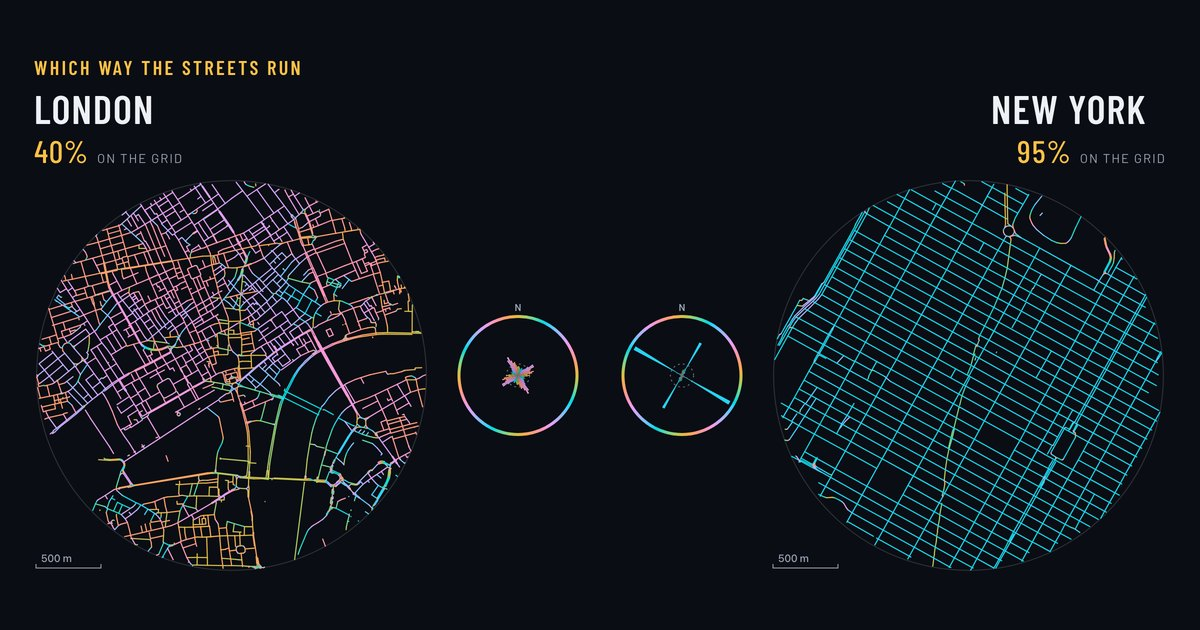
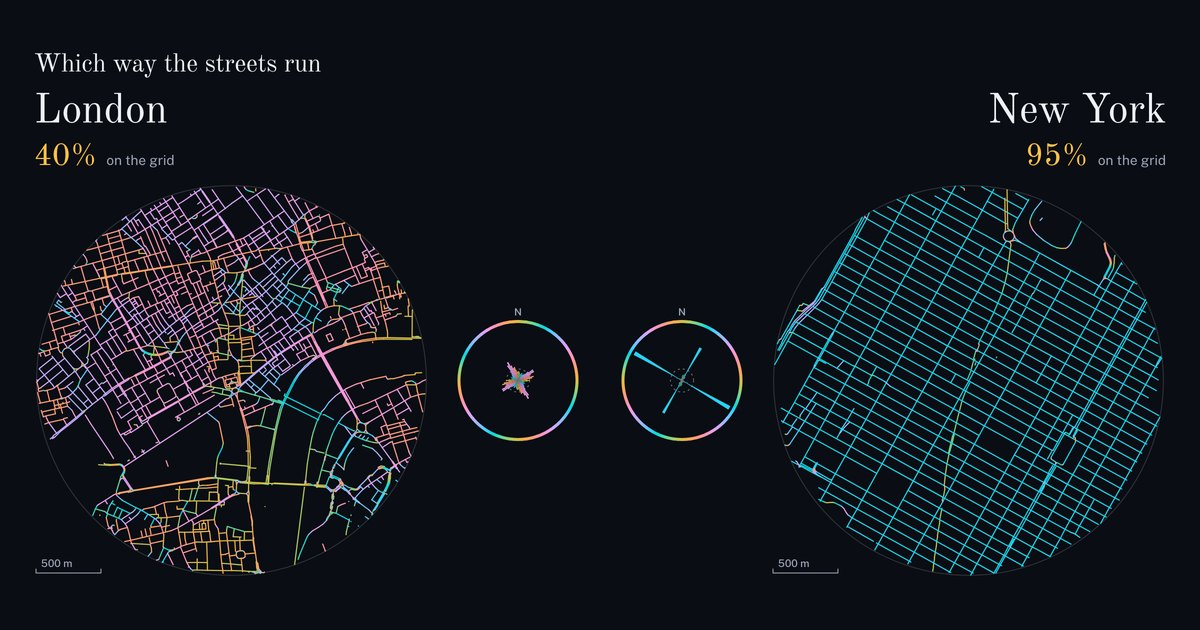
Reset No. 014 and No. 015 in an atlas serif, and fix No. 015's city menus
Old Standard TT for names and figures, Public Sans for the rest, all in
sentence case. The city pickers in No. 015 keep a native select laid over
the drawn name, so the system menu opens at its normal size.

diff --git a/works/015/index.html b/works/015/index.html
@@ -296,20 +296,20 @@
 <!-- /gen:ld -->
 <link rel="preconnect" href="https://fonts.googleapis.com">
 <link rel="preconnect" href="https://fonts.gstatic.com" crossorigin>
-<link href="https://fonts.googleapis.com/css2?family=Barlow:wght@400;500;600&family=Barlow+Condensed:wght@500;600&display=swap" rel="stylesheet">
+<link href="https://fonts.googleapis.com/css2?family=Old+Standard+TT:ital,wght@0,400;1,400&family=Public+Sans:wght@400;500;600&display=swap" rel="stylesheet">
 <style>
   /* Two street maps on a dark table, every street in the colour of the direction it runs. A sibling of No. 014. */
   :root {
     --ground: #0a0d13; --ink: #eef1f6; --soft: #9aa5b8; --dim: #8490a4;
     --line: rgba(238, 241, 246, .18); --hot: #ffc247;
-    --sans: 'Barlow', 'Helvetica Neue', system-ui, sans-serif;
-    --cond: 'Barlow Condensed', 'Barlow', 'Arial Narrow', system-ui, sans-serif;
+    --serif: 'Old Standard TT', 'Iowan Old Style', 'Palatino Linotype', Georgia, serif;
+    --sans: 'Public Sans', 'Helvetica Neue', system-ui, sans-serif;
     --pad: clamp(16px, 3.4vw, 48px);
     color-scheme: dark;
   }
   * { box-sizing: border-box; }
   html, body { margin: 0; }
-  body { min-height: 100dvh; color: var(--ink); background: var(--ground); font: 400 16px/1.5 var(--sans); -webkit-font-smoothing: antialiased; }
+  body { min-height: 100dvh; color: var(--ink); background: var(--ground); font: 400 16px/1.5 var(--sans); font-synthesis: none; -webkit-font-smoothing: antialiased; }
   ::selection { background: var(--hot); color: var(--ground); }
   :focus-visible { outline: 2px solid var(--ink); outline-offset: 3px; }
   button, select { font: inherit; color: inherit; cursor: pointer; }
@@ -319,19 +319,20 @@
   /* the way back to the other works: a pill, with the work's label beside it, then the pairs to try */
   .nav { display: flex; align-items: center; gap: 10px 14px; flex-wrap: wrap; padding: max(16px, env(safe-area-inset-top)) var(--pad) 0; }
   .back, .pill { color: var(--ink); text-decoration: none; padding: 9px 14px; border: 1px solid var(--line); border-radius: 99px; background: none;
-    font-size: .78rem; font-weight: 600; line-height: 1; letter-spacing: .14em; text-transform: uppercase; white-space: nowrap; transition: border-color .2s, background-color .2s; }
+    font-size: .85rem; font-weight: 500; line-height: 1; white-space: nowrap; transition: border-color .2s, background-color .2s; }
+  .back { font-weight: 600; }
   .back:hover, .pill:hover { border-color: var(--ink); background: rgba(238, 241, 246, .08); }
-  .label { font-size: .78rem; font-weight: 500; letter-spacing: .14em; text-transform: uppercase; color: var(--soft); }
+  .label { font-size: .85rem; color: var(--soft); }
 
   .head { padding: clamp(24px, 4vw, 52px) var(--pad) 0; display: grid; gap: clamp(12px, 2vw, 24px) clamp(24px, 5vw, 80px); grid-template-columns: minmax(0, auto) minmax(0, 36rem); align-items: end; justify-content: start; }
-  .head h1 { font: 600 clamp(2.4rem, 6.4vw, 4.8rem)/.9 var(--cond); letter-spacing: .005em; text-transform: uppercase; }
-  .head h1 span { display: block; color: var(--hot); }
+  .head h1 { font: 400 clamp(2.3rem, 5.4vw, 4.4rem)/1.02 var(--serif); letter-spacing: -.01em; }
+  .head h1 span { display: block; }
   .lede { color: var(--soft); font-size: clamp(.98rem, 1.25vw, 1.1rem); text-wrap: pretty; }
   .lede b { color: var(--ink); font-weight: 500; }
 
   .pairs { display: flex; flex-wrap: wrap; gap: 0 22px; padding: clamp(14px, 2vw, 22px) var(--pad) 0; }
   .tab { padding: 9px 0 7px; border: 0; border-bottom: 1px solid transparent; background: none; color: var(--soft);
-    font-size: .78rem; font-weight: 600; line-height: 1; letter-spacing: .14em; text-transform: uppercase; white-space: nowrap; transition: color .2s, border-color .2s; }
+    font-size: .9rem; font-weight: 500; line-height: 1; white-space: nowrap; transition: color .2s, border-color .2s; }
   .tab:hover { color: var(--ink); }
   .tab[aria-pressed="true"] { color: var(--ink); border-color: var(--ink); }
 
@@ -341,15 +342,21 @@
     padding: clamp(18px, 3vw, 36px) var(--pad) 0; }
   .pick { display: grid; gap: 2px; align-content: start; min-width: 0; padding-bottom: 10px; }
   .pick.a { grid-area: pa; } .pick.b { grid-area: pb; justify-items: end; text-align: right; }
-  .pick select { max-width: 100%; padding: 0 1.1em 0 0; border: 0; border-bottom: 1px solid var(--line); border-radius: 0; background: none; -webkit-appearance: none; appearance: none;
-    font: 600 clamp(1.7rem, 4.6vw, 3.4rem)/1.05 var(--cond); letter-spacing: .03em; text-transform: uppercase;
+  /* the big name is drawn; the real select lies over it, unseen, so its list opens at the system's own size */
+  .choose { position: relative; justify-self: start; max-width: 100%; }
+  .pick.b .choose { justify-self: end; }
+  .name { display: block; overflow: hidden; text-overflow: ellipsis; white-space: nowrap; padding: 0 .9em 0 0; border-bottom: 1px solid var(--line);
+    font: 400 clamp(2rem, 4.6vw, 3.4rem)/1.15 var(--serif); letter-spacing: -.01em; transition: border-color .2s;
     background-image: linear-gradient(45deg, transparent 50%, currentColor 50%), linear-gradient(135deg, currentColor 50%, transparent 50%);
-    background-size: .22em .22em, .22em .22em; background-position: calc(100% - .5em) 58%, calc(100% - .28em) 58%; background-repeat: no-repeat; }
-  .pick select:hover { border-color: var(--ink); }
-  .pick option { font: 400 1rem var(--sans); color: #111; text-transform: none; }
-  .from { color: var(--soft); font-size: .9rem; line-height: 1.3; }
-  .score { margin-top: 4px; color: var(--soft); font-size: .8rem; letter-spacing: .1em; text-transform: uppercase; }
-  .score b { margin-right: .15em; font: 500 clamp(1.5rem, 2.6vw, 2.2rem)/1 var(--cond); letter-spacing: .02em; color: var(--hot); font-variant-numeric: tabular-nums; }
+    background-size: .18em .18em, .18em .18em; background-position: calc(100% - .38em) 58%, calc(100% - .2em) 58%; background-repeat: no-repeat; }
+  .choose select { position: absolute; inset: 0; width: 100%; height: 100%; margin: 0; padding: 0; border: 0; opacity: 0; font-size: 16px; cursor: pointer; }
+  .choose:hover .name { border-color: var(--ink); }
+  .choose:focus-within { outline: 2px solid var(--ink); outline-offset: 3px; }
+  .choose:has(select) { outline: none; }
+  .choose:has(select:focus-visible) { outline: 2px solid var(--ink); outline-offset: 3px; }
+  .from { color: var(--soft); font: italic 400 1.05rem/1.3 var(--serif); margin-top: 4px; }
+  .score { margin-top: 4px; color: var(--soft); font-size: .85rem; }
+  .score b { margin-right: .2em; font: 400 clamp(1.6rem, 2.6vw, 2.2rem)/1 var(--serif); color: var(--hot); font-variant-numeric: tabular-nums; }
   .btns { display: flex; flex-wrap: wrap; gap: 8px; justify-content: center; }
   .map { position: relative; aspect-ratio: 1; width: min(100%, 68dvh); cursor: crosshair; }
   .map.a { grid-area: ma; justify-self: end; } .map.b { grid-area: mb; justify-self: start; }
@@ -357,34 +364,34 @@
   .rose { position: relative; aspect-ratio: 1; align-self: end; touch-action: none; cursor: crosshair; }
   .rose.a { grid-area: ra; } .rose.b { grid-area: rb; }
   .ctl { grid-area: ct; display: grid; gap: 12px; justify-items: center; align-content: start; padding-top: 12px; text-align: center; }
-  .read { color: var(--soft); font-size: .86rem; line-height: 1.35; min-height: 2.7em; max-width: 26em; font-variant-numeric: tabular-nums; }
+  .read { color: var(--soft); font-size: .9rem; line-height: 1.35; min-height: 2.7em; max-width: 26em; font-variant-numeric: tabular-nums; }
   .read b { color: var(--ink); font-weight: 500; }
 
   /* the numbers, city against city */
   .tape { display: grid; gap: clamp(14px, 2vw, 22px); max-width: 1100px; margin: 0 auto; padding: clamp(28px, 4vw, 56px) var(--pad) 0; }
   .row { display: grid; grid-template-columns: minmax(0, 1fr) minmax(8.5em, 15em) minmax(0, 1fr); gap: 0 clamp(10px, 2vw, 28px); align-items: center; }
   .what { text-align: center; }
-  .what b { display: block; font: 600 clamp(.95rem, 1.5vw, 1.2rem)/1.1 var(--cond); letter-spacing: .1em; text-transform: uppercase; }
-  .what span { display: block; margin-top: 3px; color: var(--dim); font-size: .76rem; line-height: 1.3; text-wrap: balance; }
+  .what b { display: block; font: 500 clamp(.95rem, 1.4vw, 1.1rem)/1.2 var(--sans); }
+  .what span { display: block; margin-top: 3px; color: var(--dim); font-size: .8rem; line-height: 1.3; text-wrap: balance; }
   .val { display: flex; align-items: center; gap: 12px; min-width: 0; }
   .val.a { flex-direction: row-reverse; }
-  .val b { flex: none; min-width: 2.7em; font: 500 clamp(1.5rem, 3.2vw, 2.4rem)/1 var(--cond); font-variant-numeric: tabular-nums; }
+  .val b { flex: none; min-width: 2.7em; font: 400 clamp(1.6rem, 3.2vw, 2.4rem)/1 var(--serif); font-variant-numeric: tabular-nums; }
   .val.a b { text-align: left; } .val.b b { text-align: right; }
-  .val b small { font: 500 .45em/1 var(--sans); color: var(--soft); margin-left: .25em; letter-spacing: .04em; }
+  .val b small { font: 400 max(.8rem, .4em)/1 var(--sans); color: var(--soft); margin-left: .25em; }
   .bar { flex: 1 1 0; height: 6px; min-width: 0; display: flex; background: rgba(238, 241, 246, .08); border-radius: 1px; }
   .val.a .bar { justify-content: flex-end; }
   .bar i { display: block; height: 100%; background: var(--ink); border-radius: 1px; transition: width .6s cubic-bezier(.16, 1, .3, 1); }
 
   .about { max-width: 1100px; margin: 0 auto; padding: clamp(36px, 5vw, 72px) var(--pad) max(48px, env(safe-area-inset-bottom)); color: var(--soft); font-size: .92rem; display: grid; gap: .8em; }
   .about p { max-width: 46rem; }
-  .about h2 { font: 600 1.05rem/1.2 var(--cond); letter-spacing: .1em; text-transform: uppercase; color: var(--ink); margin-top: .8em; }
+  .about h2 { font: 400 1.4rem/1.2 var(--serif); color: var(--ink); margin-top: .8em; }
   .scroll { overflow-x: auto; margin: .4em 0; }
   table { border-collapse: collapse; width: 100%; min-width: 640px; font-variant-numeric: tabular-nums; }
   th, td { padding: 7px 14px 7px 0; text-align: right; border-bottom: 1px solid rgba(238, 241, 246, .1); font-weight: 400; white-space: nowrap; }
-  thead th { font-size: .72rem; letter-spacing: .08em; text-transform: uppercase; color: var(--dim); vertical-align: bottom; white-space: normal; }
+  thead th { font-size: .8rem; color: var(--dim); vertical-align: bottom; white-space: normal; }
   th:first-child { text-align: left; }
-  tbody th { color: var(--ink); font: 600 1rem/1.2 var(--cond); letter-spacing: .06em; text-transform: uppercase; }
-  tbody th small { display: block; font: 400 .78rem/1.3 var(--sans); letter-spacing: 0; text-transform: none; color: var(--dim); }
+  tbody th { color: var(--ink); font: 400 1.15rem/1.2 var(--serif); }
+  tbody th small { display: block; font: 400 .8rem/1.3 var(--sans); color: var(--dim); }
   tbody td { color: var(--ink); }
   tr.on th, tr.on td { border-bottom-color: var(--hot); }
   tr.on th { color: var(--hot); }
@@ -411,10 +418,10 @@
   /* ?bare: the two maps and their compasses, for the share image */
   .bare .nav, .bare .head, .bare .pairs, .bare .tape, .bare .about, .bare .ctl, .bare .from { display: none; }
   .bare body { display: grid; align-content: center; }
-  .bare body::before { content: 'Which way the streets run'; padding: 0 34px 10px; font: 600 1.25rem/1 var(--cond); letter-spacing: .12em; text-transform: uppercase; color: var(--hot); }
+  .bare body::before { content: 'Which way the streets run'; padding: 0 34px 10px; font: 400 1.6rem/1 var(--serif); letter-spacing: -.01em; color: var(--ink); }
   .bare .duel { padding: 0 34px; gap: 0 14px; grid-template-columns: minmax(0, 1fr) 150px 150px minmax(0, 1fr); grid-template-areas: 'pa pa pb pb' 'ma ra rb mb'; grid-template-rows: auto auto; }
   .bare .rose { align-self: center; }
-  .bare .pick select { font-size: 2.5rem; border: 0; background-image: none; padding: 0; }
+  .bare .name { font-size: 2.6rem; border: 0; background-image: none; padding: 0; }
   .bare .map { width: 100%; }
   @media (prefers-reduced-motion: reduce) { * { transition: none !important; } }
 </style>
@@ -442,8 +449,8 @@
   </div>
 
   <main class="duel" id="duel">
-    <div class="pick a"><select id="pick-a" aria-label="City on the left"></select><p class="from" id="from-a"></p><p class="score"><b id="score-a"></b> on the grid</p></div>
-    <div class="pick b"><select id="pick-b" aria-label="City on the right"></select><p class="from" id="from-b"></p><p class="score"><b id="score-b"></b> on the grid</p></div>
+    <div class="pick a"><div class="choose"><span class="name" id="name-a" aria-hidden="true"></span><select id="pick-a" aria-label="City on the left"></select></div><p class="from" id="from-a"></p><p class="score"><b id="score-a"></b> on the grid</p></div>
+    <div class="pick b"><div class="choose"><span class="name" id="name-b" aria-hidden="true"></span><select id="pick-b" aria-label="City on the right"></select></div><p class="from" id="from-b"></p><p class="score"><b id="score-b"></b> on the grid</p></div>
     <div class="map a" id="map-a" role="img"><canvas></canvas></div>
     <div class="map b" id="map-b" role="img"><canvas></canvas></div>
     <div class="rose a" id="rose-a" role="img"><canvas></canvas></div>

diff --git a/works/014/index.html b/works/014/index.html
@@ -296,20 +296,20 @@
 <!-- /gen:ld -->
 <link rel="preconnect" href="https://fonts.googleapis.com">
 <link rel="preconnect" href="https://fonts.gstatic.com" crossorigin>
-<link href="https://fonts.googleapis.com/css2?family=Barlow:wght@400;500;600&family=Barlow+Condensed:wght@500;600&display=swap" rel="stylesheet">
+<link href="https://fonts.googleapis.com/css2?family=Old+Standard+TT:ital,wght@0,400;1,400&family=Public+Sans:wght@400;500;600&display=swap" rel="stylesheet">
 <style>
   /* Twelve cities seen from above at night: the streets dim, and lit from the start outward as the walker reaches them. */
   :root {
     --ground: #0a0d13; --ink: #eef1f6; --soft: #9aa5b8; --dim: #8490a4;
     --line: rgba(238, 241, 246, .18); --hot: #ffc247;
-    --sans: 'Barlow', 'Helvetica Neue', system-ui, sans-serif;
-    --cond: 'Barlow Condensed', 'Barlow', 'Arial Narrow', system-ui, sans-serif;
+    --serif: 'Old Standard TT', 'Iowan Old Style', 'Palatino Linotype', Georgia, serif;
+    --sans: 'Public Sans', 'Helvetica Neue', system-ui, sans-serif;
     --pad: clamp(16px, 3.4vw, 48px);
     color-scheme: dark;
   }
   * { box-sizing: border-box; }
   html, body { margin: 0; }
-  body { min-height: 100dvh; color: var(--ink); background: var(--ground); font: 400 16px/1.5 var(--sans); -webkit-font-smoothing: antialiased; }
+  body { min-height: 100dvh; color: var(--ink); background: var(--ground); font: 400 16px/1.5 var(--sans); font-synthesis: none; -webkit-font-smoothing: antialiased; }
   ::selection { background: var(--hot); color: var(--ground); }
   :focus-visible { outline: 2px solid var(--ink); outline-offset: 3px; }
   button { font: inherit; color: inherit; cursor: pointer; }
@@ -319,21 +319,22 @@
   /* the way back to the other works: a pill, with the work's label beside it */
   .nav { display: flex; align-items: center; gap: 14px; flex-wrap: wrap; padding: max(16px, env(safe-area-inset-top)) var(--pad) 0; }
   .back, .pill { color: var(--ink); text-decoration: none; padding: 9px 14px; border: 1px solid var(--line); border-radius: 99px; background: none;
-    font-size: .78rem; font-weight: 600; line-height: 1; letter-spacing: .14em; text-transform: uppercase; white-space: nowrap; transition: border-color .2s, background-color .2s; }
+    font-size: .9rem; font-weight: 500; line-height: 1; white-space: nowrap; transition: border-color .2s, background-color .2s; }
+  .back { font-weight: 600; }
   .back:hover, .pill:hover { border-color: var(--ink); background: rgba(238, 241, 246, .08); }
-  .label { font-size: .78rem; font-weight: 500; letter-spacing: .14em; text-transform: uppercase; color: var(--soft); }
+  .label { font-size: .9rem; color: var(--soft); }
 
   .head { padding: clamp(28px, 5vw, 64px) var(--pad) clamp(8px, 1.4vw, 16px); display: grid; gap: clamp(14px, 2vw, 24px) clamp(24px, 5vw, 80px); grid-template-columns: minmax(0, auto) minmax(0, 34rem); align-items: end; justify-content: start; }
-  .head h1 { font: 600 clamp(2.6rem, 7.4vw, 5.6rem)/.9 var(--cond); letter-spacing: .005em; text-transform: uppercase; }
-  .head h1 span { display: block; color: var(--hot); }
-  .lede { color: var(--soft); font-size: clamp(.98rem, 1.25vw, 1.1rem); text-wrap: pretty; }
+  .head h1 { font: 400 clamp(2.3rem, 5.4vw, 4.4rem)/1.02 var(--serif); letter-spacing: -.01em; }
+  .head h1 span { display: block; }
+  .lede { color: var(--soft); font-size: clamp(1rem, 1.25vw, 1.1rem); text-wrap: pretty; }
   .lede b { color: var(--ink); font-weight: 500; }
 
   /* the clock: its track is the key to the colours, a band a minute */
   .dock { position: sticky; top: 0; z-index: 5; display: flex; align-items: center; gap: 12px clamp(14px, 2vw, 28px); flex-wrap: wrap;
     padding: 12px var(--pad) 10px; background: var(--ground); box-shadow: 0 10px 14px -4px var(--ground); }
   .play { min-width: 8.6em; text-align: center; }
-  .time { position: relative; flex: 1 1 240px; max-width: 520px; padding: 6px 0 20px; }
+  .time { position: relative; flex: 1 1 240px; max-width: 520px; padding: 6px 0 22px; }
   .ramp { position: relative; height: 8px; border-radius: 2px; overflow: hidden; }
   .ramp i { position: absolute; inset: 0 0 0 0; background: rgba(10, 13, 19, .8); }
   .time input { position: absolute; left: -8px; right: -8px; top: 0; width: calc(100% + 16px); height: 20px; margin: 0; background: none; -webkit-appearance: none; appearance: none; cursor: pointer; }
@@ -341,14 +342,14 @@
   .time input::-moz-range-track { height: 20px; background: none; }
   .time input::-webkit-slider-thumb { -webkit-appearance: none; width: 16px; height: 16px; margin-top: 2px; border-radius: 50%; background: var(--ink); border: 3px solid var(--ground); box-shadow: 0 0 0 1px var(--ink); }
   .time input::-moz-range-thumb { width: 10px; height: 10px; border-radius: 50%; background: var(--ink); border: 3px solid var(--ground); box-shadow: 0 0 0 1px var(--ink); }
-  .ticks { position: absolute; left: 0; right: 0; bottom: 0; height: 14px; font-size: .7rem; line-height: 14px; color: var(--dim); letter-spacing: .06em; }
+  .ticks { position: absolute; left: 0; right: 0; bottom: 0; height: 16px; font-size: .8rem; line-height: 16px; color: var(--dim); font-variant-numeric: tabular-nums; }
   .ticks span { position: absolute; transform: translateX(-50%); white-space: nowrap; }
   .ticks span:first-child { transform: none; } .ticks span:last-child { transform: translateX(-100%); }
-  .clock { font: 500 1.5rem/1 var(--cond); font-variant-numeric: tabular-nums; letter-spacing: .02em; min-width: 3.2em; }
-  .clock small { font: 500 .7rem/1 var(--sans); letter-spacing: .1em; text-transform: uppercase; color: var(--dim); margin-left: .4em; }
+  .clock { font: 400 1.6rem/1 var(--serif); font-variant-numeric: tabular-nums; min-width: 3.2em; white-space: nowrap; }
+  .clock small { font: 400 .9rem/1 var(--sans); font-variant-numeric: tabular-nums; color: var(--dim); margin-left: .4em; }
   .order { display: flex; gap: 0 22px; flex-wrap: wrap; padding: 10px var(--pad) 0; }
   .tab { padding: 9px 0 7px; border: 0; border-bottom: 1px solid transparent; background: none; color: var(--soft);
-    font-size: .78rem; font-weight: 600; line-height: 1; letter-spacing: .14em; text-transform: uppercase; transition: color .2s, border-color .2s; }
+    font-size: .9rem; font-weight: 500; line-height: 1; transition: color .2s, border-color .2s; }
   .tab:hover { color: var(--ink); }
   .tab[aria-pressed="true"] { color: var(--ink); border-color: var(--ink); }
 
@@ -362,20 +363,20 @@
   .open { position: absolute; inset: 0; width: 100%; height: 100%; padding: 0; border: 0; border-radius: 50%; background: none; }
   .open:focus-visible { outline-offset: -4px; }
   .cap { display: grid; grid-template-columns: minmax(0, 1fr) auto; gap: 0 12px; align-items: start; padding-top: 10px; }
-  .city h2 { font: 600 clamp(1.2rem, 1.9vw, 1.6rem)/1.05 var(--cond); letter-spacing: .05em; text-transform: uppercase; transition: color .2s; }
+  .city h2 { font: 400 clamp(1.5rem, 2.1vw, 1.9rem)/1.1 var(--serif); transition: color .2s; }
   .city:hover h2 { color: var(--hot); }
-  .from { color: var(--soft); font-size: .86rem; line-height: 1.3; margin-top: 3px; }
+  .from { color: var(--soft); font: italic 400 1rem/1.25 var(--serif); margin-top: 3px; }
   .reach { grid-column: 2; grid-row: 1 / span 2; text-align: right; line-height: 1; }
-  .reach b { display: block; font: 500 clamp(1.7rem, 2.9vw, 2.5rem)/.9 var(--cond); font-variant-numeric: tabular-nums; }
-  .reach span { display: block; margin-top: 5px; font-size: .78rem; color: var(--soft); font-variant-numeric: tabular-nums; white-space: nowrap; }
-  .since { grid-column: 1 / -1; margin-top: 7px; font-size: .74rem; letter-spacing: .08em; text-transform: uppercase; color: var(--dim); }
+  .reach b { display: block; font: 400 clamp(1.7rem, 2.9vw, 2.5rem)/.9 var(--serif); font-variant-numeric: tabular-nums; }
+  .reach span { display: block; margin-top: 6px; font-size: .8rem; color: var(--soft); font-variant-numeric: tabular-nums; white-space: nowrap; }
+  .since { grid-column: 1 / -1; margin-top: 7px; font-size: .8rem; color: var(--dim); }
   .js .city .note { display: none; }
   .note { grid-column: 1 / -1; margin-top: 8px; color: var(--soft); font-size: .9rem; }
   .failed .dot { display: none; }
-  .failed .map::after { content: 'The map did not load.'; position: absolute; inset: 0; display: grid; place-items: center; color: var(--dim); font-size: .85rem; }
+  .failed .map::after { content: 'The map did not load.'; position: absolute; inset: 0; display: grid; place-items: center; color: var(--dim); font-size: .9rem; }
 
-  .about { max-width: 46rem; padding: 0 var(--pad) max(48px, env(safe-area-inset-bottom)); color: var(--soft); font-size: .92rem; display: grid; gap: .8em; }
-  .about h2 { font: 600 1.05rem/1.2 var(--cond); letter-spacing: .1em; text-transform: uppercase; color: var(--ink); }
+  .about { max-width: 46rem; padding: 0 var(--pad) max(48px, env(safe-area-inset-bottom)); color: var(--soft); font-size: .9rem; display: grid; gap: .8em; }
+  .about h2 { font: 400 1.5rem/1.2 var(--serif); color: var(--ink); margin-top: .4em; }
 
   /* one city, opened: the map can be dragged under the start */
   dialog { width: 100vw; max-width: none; height: 100dvh; max-height: none; margin: 0; padding: 0; border: 0; color: var(--ink); background: var(--ground); overflow: auto; }
@@ -387,17 +388,16 @@
   .f-map .dot { width: 13px; height: 13px; margin: -6.5px; box-shadow: 0 0 0 3px var(--ground); }
   .f-side { display: grid; gap: 14px; align-content: center; min-width: 0; }
   .f-top { display: flex; justify-content: space-between; align-items: center; gap: 12px; }
-  .f-side h2 { font: 600 clamp(2.2rem, 4.4vw, 3.6rem)/.92 var(--cond); letter-spacing: .02em; text-transform: uppercase; }
-  .f-side .from { font-size: 1rem; margin: 0; }
+  .f-side h2 { font: 400 clamp(2.3rem, 4.4vw, 3.6rem)/1 var(--serif); letter-spacing: -.01em; }
+  .f-side .from { font-size: 1.25rem; margin: 0; }
   .f-reach { display: flex; align-items: baseline; gap: 12px; flex-wrap: wrap; }
-  .f-reach b { font: 500 clamp(3.4rem, 7vw, 5.4rem)/.82 var(--cond); font-variant-numeric: tabular-nums; color: var(--hot); min-width: 2.1ch; }
-  .f-reach span { color: var(--soft); font-size: .95rem; line-height: 1.3; font-variant-numeric: tabular-nums; }
-  .f-side .note { margin: 0; font-size: .98rem; text-wrap: pretty; }
+  .f-reach b { font: 400 clamp(3.4rem, 7vw, 5.4rem)/.82 var(--serif); font-variant-numeric: tabular-nums; color: var(--hot); min-width: 2.1ch; }
+  .f-reach span { color: var(--soft); font-size: 1rem; line-height: 1.3; font-variant-numeric: tabular-nums; }
+  .f-side .note { margin: 0; font-size: 1rem; text-wrap: pretty; }
   .f-side .since { margin: 0; }
-  .hint { color: var(--ink); font-size: .92rem; }
+  .hint { color: var(--ink); font-size: .9rem; }
   .f-side .dock { position: static; padding: 6px 0 0; background: none; box-shadow: none; }
   .f-nav { display: flex; justify-content: space-between; gap: 12px; flex-wrap: wrap; padding-top: 4px; }
-  .f-nav .tab { letter-spacing: .12em; }
   [hidden] { display: none !important; }
 
   @media (max-width: 1100px) { .grid { grid-template-columns: repeat(3, minmax(0, 1fr)); } }
@@ -415,7 +415,7 @@
     .dock { gap: 6px 14px; padding-top: 10px; }
     .time { order: -1; flex: 1 1 100%; max-width: none; }
     .play { min-width: 0; padding: 8px 12px; }
-    .clock { min-width: 0; font-size: 1.3rem; }
+    .clock { min-width: 0; font-size: 1.4rem; }
   }
 
   /* without scripts: the cities as a list, with the numbers the page had when it was built */
@@ -426,11 +426,11 @@
   /* ?bare: only the maps, at the end of the walk, for the share image */
   .bare .nav, .bare .head, .bare .dock, .bare .order, .bare .about, .bare .from, .bare .since, .bare .reach span { display: none; }
   .bare body { display: grid; align-content: center; }
-  .bare body::before { content: 'Fifteen minutes on foot'; padding: 0 30px 2px; font: 600 2.1rem/1 var(--cond); letter-spacing: .03em; text-transform: uppercase; color: var(--ink); }
+  .bare body::before { content: 'Fifteen minutes on foot'; padding: 0 30px 2px; font: 400 2.3rem/1 var(--serif); letter-spacing: -.01em; color: var(--ink); }
   .bare .grid { grid-template-columns: repeat(6, minmax(0, 1fr)); gap: 20px 18px; padding: 20px 30px 8px; }
   .bare .cap { padding-top: 6px; align-items: baseline; }
-  .bare .city h2 { font-size: 1.15rem; }
-  .bare .reach b { font-size: 1.15rem; color: var(--hot); }
+  .bare .city h2 { font-size: 1.2rem; }
+  .bare .reach b { font-size: 1.2rem; color: var(--hot); }
   @media (prefers-reduced-motion: reduce) { * { transition: none !important; } }
 </style>
 </head>

diff --git a/works/015/main.js b/works/015/main.js
@@ -57,7 +57,7 @@
       this.key = key; this.city = null; this.drawn = 0;
       this.mapBox = $('map-' + key); this.roseBox = $('rose-' + key);
       this.map = this.mapBox.querySelector('canvas'); this.rose = this.roseBox.querySelector('canvas');
-      this.pick = $('pick-' + key); this.from = $('from-' + key); this.score = $('score-' + key);
+      this.pick = $('pick-' + key); this.name = $('name-' + key); this.from = $('from-' + key); this.score = $('score-' + key);
     }
     measure() {
       const dpr = Math.min(window.devicePixelRatio || 1, 2);
@@ -79,7 +79,7 @@
         const d = this.dpr, x = 2 * d, y = s - 5 * d;
         ctx.beginPath(); ctx.moveTo(x, y - 4 * d); ctx.lineTo(x, y); ctx.lineTo(x + 500 * k, y); ctx.lineTo(x + 500 * k, y - 4 * d);
         ctx.strokeStyle = 'rgba(154,165,184,.9)'; ctx.stroke();
-        ctx.fillStyle = 'rgba(154,165,184,1)'; ctx.font = `500 ${10.5 * d}px Barlow, system-ui, sans-serif`; ctx.textAlign = 'left'; ctx.textBaseline = 'alphabetic';
+        ctx.fillStyle = 'rgba(154,165,184,1)'; ctx.font = `500 ${10.5 * d}px 'Public Sans', system-ui, sans-serif`; ctx.textAlign = 'left'; ctx.textBaseline = 'alphabetic';
         ctx.fillText('500 m', x + 5 * d, y - 6 * d);
       }
       this.picked = pick != null; this.drawn = upto;
@@ -123,7 +123,7 @@
         ctx.beginPath(); ctx.moveTo(h - rim * Math.cos(a), h - rim * Math.sin(a)); ctx.lineTo(h + rim * Math.cos(a), h + rim * Math.sin(a));
         ctx.lineWidth = d; ctx.strokeStyle = 'rgba(238,241,246,.85)'; ctx.stroke();
       }
-      ctx.fillStyle = 'rgba(154,165,184,1)'; ctx.font = `600 ${10 * d}px Barlow, system-ui, sans-serif`; ctx.textAlign = 'center'; ctx.textBaseline = 'middle';
+      ctx.fillStyle = 'rgba(154,165,184,1)'; ctx.font = `600 ${10 * d}px 'Public Sans', system-ui, sans-serif`; ctx.textAlign = 'center'; ctx.textBaseline = 'middle';
       ctx.fillText('N', h, 7 * d);
     }
   }
@@ -248,7 +248,7 @@
     sides.a.city = a; sides.b.city = b; pick = null;
     for (const side of both) {
       const c = side.city;
-      side.pick.value = c.slug; side.from.textContent = c.place; side.score.textContent = c.s.grid + '%'; side.drawn = -1;
+      side.pick.value = c.slug; if (side.name) side.name.textContent = c.name; side.from.textContent = c.place; side.score.textContent = c.s.grid + '%'; side.drawn = -1;
       side.mapBox.setAttribute('aria-label', `Street map of ${c.name}, 3 km across, each street coloured by its direction`);
       side.roseBox.setAttribute('aria-label', `Compass of street directions in ${c.name}: ${c.s.grid}% of street runs along its two main directions`);
     }
@@ -264,6 +264,8 @@
   const fromHash = () => { const [a, b] = location.hash.slice(1).split('-').map((s) => bySlug[s]); return a && b && a !== b ? [a, b] : null; };
   addEventListener('hashchange', () => { const p = fromHash(); if (p && (p[0] !== sides.a.city || p[1] !== sides.b.city)) set(p[0], p[1], true); });
 
+  // the canvas labels are drawn in Public Sans: draw again once it has come
+  if (document.fonts) Promise.all([document.fonts.load("500 10px 'Public Sans'"), document.fonts.load("600 10px 'Public Sans'")]).then(() => { for (const side of both) side.drawn = -1; if (!playing) paint(); }, () => {});
   const measure = () => { for (const side of both) side.measure(); if (!playing) paint(); };
   new ResizeObserver(measure).observe($('duel'));
   for (const side of both) side.measure();
